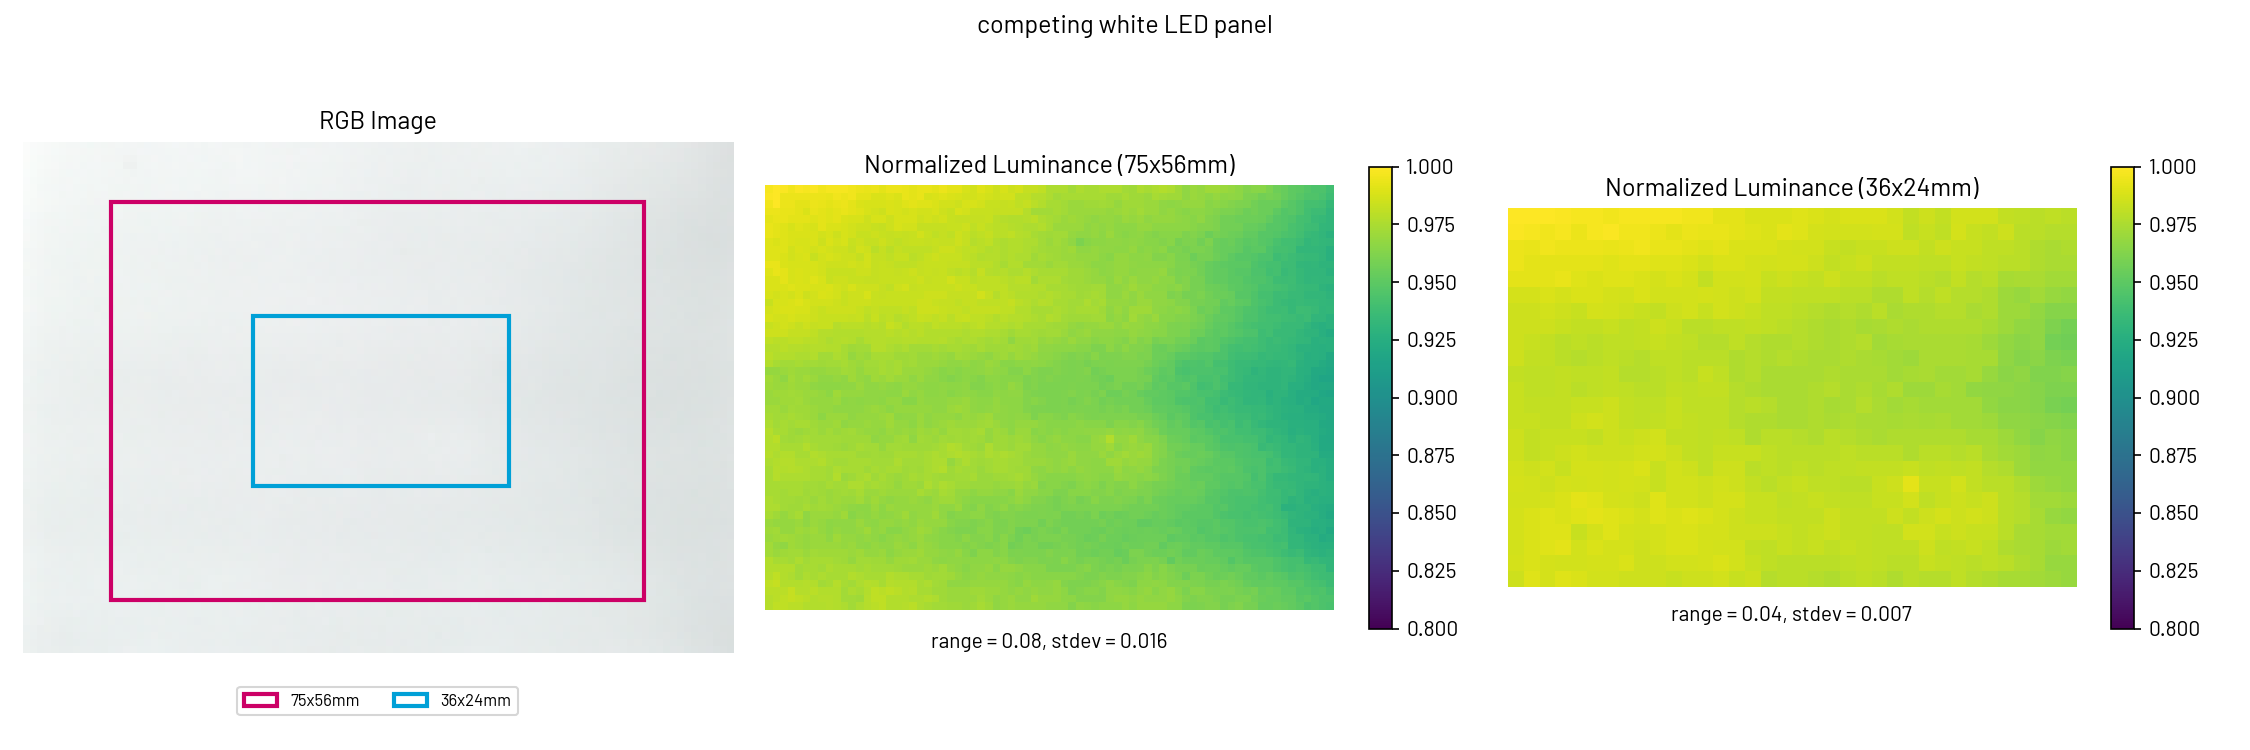
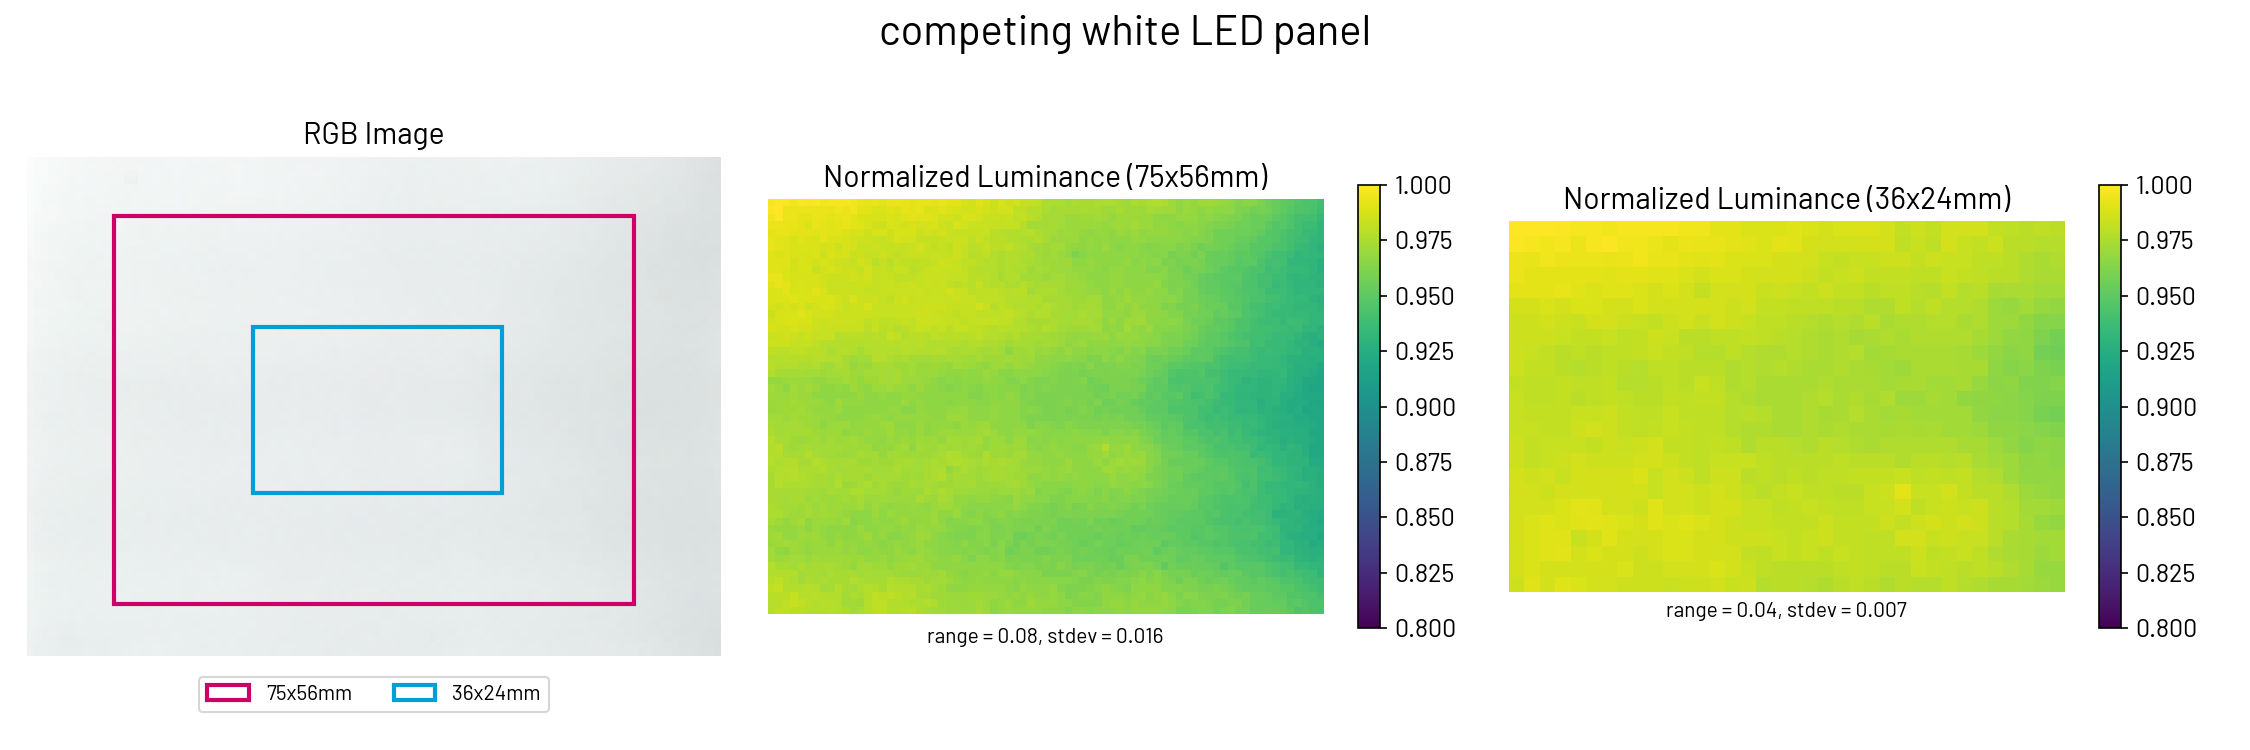
update hw_v2

diff --git a/data/plot.py b/data/plot.py
@@ -65,7 +65,8 @@ def process_images_in_directory():
     os.makedirs(output_dir, exist_ok=True)
 
     plt.rcParams['font.family'] = 'sans-serif'  # or 'sans-serif', 'monospace', or a specific font name
-    plt.rcParams['font.sans-serif'] = ['Barlow']  # Specify a list of fonts to try for 'serif' family
+    plt.rcParams['font.sans-serif'] = ['Barlow']  # Specify a list of fonts to try for 'serif' family\
+    plt.rcParams['font.size'] = 12
 
     image_files = [f for f in os.listdir('.') if f.lower().endswith('.png')]
 
@@ -90,7 +91,7 @@ def process_images_in_directory():
         # Set up figure: 1 row, 3 columns
         fig, axs = plt.subplots(1, 3, figsize=(15, 5))
         base_name = os.path.splitext(os.path.basename(img_file))[0]
-        fig.suptitle(f'{base_name}')
+        fig.suptitle(f'{base_name}', fontsize=20)
 
         # 1. RGB image (100x72mm)
         ax = axs[0]
@@ -105,7 +106,7 @@ def process_images_in_directory():
             rect = patches.Rectangle((start_x, start_y), rect_w, rect_h,
                                      linewidth=2, edgecolor=color, facecolor='none', label=label)
             ax.add_patch(rect)
-            ax.legend(fontsize=8, loc='upper center', bbox_to_anchor=(0.5, -0.05), ncol=2)
+            ax.legend(fontsize=10, loc='upper center', bbox_to_anchor=(0.5, -0.02), ncol=2)
 
         # 2. Luminance (75x56)
         im1 = axs[1].imshow(lum_crop1, cmap='viridis', vmin=luma_limit_lower, vmax=luma_limit_upper)
@@ -131,8 +132,8 @@ def process_images_in_directory():
         # Save figure
         save_path = os.path.join(output_dir, f"luminance_plot_{base_name}.png")
         plt.tight_layout()
-        axs[1].text(s=f'range = {(lum1_max-lum1_min):.2f}, stdev = {lum1_std:.3f}', x=0.5, y=-0.1, fontsize=10, transform=axs[1].transAxes, ha='center', va='bottom')
-        axs[2].text(s=f'range = {(lum2_max-lum2_min):.2f}, stdev = {lum2_std:.3f}', x=0.5, y=-0.1, fontsize=10, transform=axs[2].transAxes, ha='center', va='bottom')
+        axs[1].text(s=f'range = {(lum1_max-lum1_min):.2f}, stdev = {lum1_std:.3f}', x=0.5, y=-0.08, fontsize=10, transform=axs[1].transAxes, ha='center', va='bottom')
+        axs[2].text(s=f'range = {(lum2_max-lum2_min):.2f}, stdev = {lum2_std:.3f}', x=0.5, y=-0.08, fontsize=10, transform=axs[2].transAxes, ha='center', va='bottom')
         plt.savefig(save_path, dpi=150)
         plt.close()
         print(f"Saved analysis to: {save_path}")

diff --git a/hw_v2.md b/hw_v2.md
@@ -1,18 +1,19 @@
 # scanlight 2
-improved narrowband light source for DSLR color negative film scanning
 
-Comparison: scanlight 2 vs competing white LED light panel vs LCD monitor
+![](<images/light_with_film_v2.jpg>)
 
-### Features
-* illuminated area dimensions: 100x74mm
-* suitable for use with 35mm and medium format film (sample scans available)
-* six each of deep red (660nm), green (520nm), and deep blue (450nm) 2835 package LEDs
-* front diffuser made from ACRYLITE® Satinice fingerprint- and scratch-resistant light diffusing acrylic
+![](<images/diffuser_v2.jpg>)
+
+### features
+* Illuminated area dimensions: 100x74mm
+* Suitable for use with 35mm and medium format film (sample scans available)
+* Six each of deep red (660nm), green (520nm), and deep blue (450nm) 2835 package LEDs
+* Front diffuser made from ACRYLITE® Satinice fingerprint- and scratch-resistant light diffusing acrylic
 * 3D printed ABS housing with high reflectivity interior achieved using aluminum pigment paint
-* designed for vertical use with a copy stand or horizontal use with optional threaded insert mounting points
-* magnetically-attached 35mm and medium format film holders available
-* powered using either a 19-24V barrel jack AC adapter or a 20V-capable USB PD supply
-* open source design released under the CERN OHL-W-V2 license
+* Designed for vertical use with a copy stand or horizontal use with optional threaded insert mounting points
+* Magnetically-attached 35mm and medium format film holders available
+* Powered using either a 19-24V barrel jack AC adapter or a 20V-capable USB PD supply
+* Open source design released under the CERN OHL-W-V2 license
 
 I will be building a limited quantity of scanlight 2 units for sale - for more details, see my commissions page on Ko-Fi. Estimated shipping date: Early August 2025.
 
@@ -40,13 +41,19 @@ Both of these scans have been inverted and color balanced *without* any calibrat
 
 All this is achieved using a simpler optical design inspired by professional film scanner light sources, using a reflective housing and single high-quality acrylic diffuser to improve both color mixing and luminance uniformity over version 1.
 
-*Note: Using Lens Cast Calibration in Capture One or Flat-Field Correction in Lightroom is still highly recommended no matter which light source you use.*
+**Note: Using Lens Cast Calibration in Capture One or Flat-Field Correction in Lightroom is still highly recommended no matter which light source you use.**
+
+![](<images/scanlight_v2_cad.png>)
 
 ## film carriers
 
-![]()
+![](images/filmcarriers_front.jpg)
 
-The 35mm and medium format film carriers use a double S-curve design to keep the film flat and feature a beveled opening on the light source side and small film-to-light distance to minimize vignetting. The double S-curve design is optimized for scanning full rolls or cut pieces >150mm in length; scanning shorter pieces may be difficult especially if the film is curled across its width.
+![](images/filmcarriers_back.jpg)
+
+![](images/filmcarrier_35_cad.png)
+
+The 35mm and medium format film carriers use a double S-curve design to keep the film flat and have a small film-to-light distance (35mm: 2.8mm, medium format: 3.8mm) to minimize vignetting. Both film carriers feature interchangeable masks that snap into the back of the carrier to block stray light from reaching the camera. The double S-curve design is optimized for scanning full rolls or cut pieces >150mm in length; scanning shorter pieces may be difficult especially if the film is curled across its width.
 
 Design files are available [here](https://github.com/jackw01/scanlight/3d/film_carriers).
 
@@ -91,10 +98,6 @@ Each group of four negatives were scanned and processed together in order to dem
 ![](images/scan_comparison_aerocolor_2.jpg)
 
 <p align="center"><small>Kodak Aerocolor IV 2460 (left: white light, right: narrowband RGB light)</small></p>
-
-### note on slide film
-
-Slide film is designed to be viewed directly when illuminated with a broad spectrum light source like an incandescent lamp. Scanning slide film with a narrowband light source and bayer image sensor results in unnaturally saturated colors with especially poor rendering of reds, oranges, and skin tones, so I don't recommend it. Achieving good results when scanning slide film using narrowband illumination would require combining individual scans of each color channel using an image processing pipeline that somehow maps the dye spectral density curves to the RGB color space, and I don't think this exists yet at least for hobbyist use.
 
 ### note on brightness enhancing film
 
